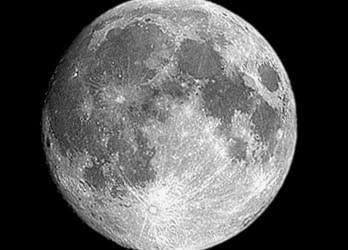
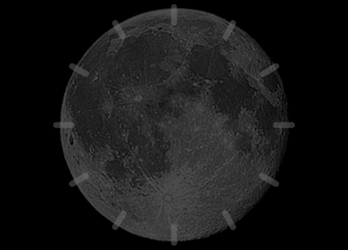
nicer moon background and also heart rate

diff --git a/app/index.js b/app/index.js
@@ -1,6 +1,8 @@
 import clock from "clock";
 import document from "document";
 import { today } from "user-activity";
+import { HeartRateSensor } from "heart-rate";
+
 
 import * as util from "../common/utils";
 
@@ -10,6 +12,7 @@ let hourHand = document.getElementById("hours");
 let minHand = document.getElementById("mins");
 let secHand = document.getElementById("secs");
 let dateLabel = document.getElementById("dateLabel");
+let hrLabel = document.getElementById("hrLabel");
 
 let hiddenButton = document.getElementById("hiddenButton");
 let stepsLabel = document.getElementById("stepsLabel");
@@ -47,19 +50,32 @@ function updateClock() {
 
 hiddenButton.onactivate = function(evt) {
   stepsLabel.text = `Steps: ${today.local.steps}`
-  stepsLabel.style.display = "inline";
+  util.showElement(stepsLabel);
   
-  dateLabel.style.display = "inline";
   dateLabel.text = `${util.getMonth()} ${day.getDate()} ${day.getFullYear()}`;
+  util.showElement(dateLabel);
+  
+  util.showElement(hrLabel)
   
   setTimeout(function() {
-    stepsLabel.style.display = "none";
-    dateLabel.style.display = "none";
+    util.hideElement(stepsLabel);
+    util.hideElement(dateLabel);
+    util.hideElement(hrLabel);
   }, 2000);
 }
 
-stepsLabel.style.display = "none";
-dateLabel.style.display = "none";
+util.hideElement(stepsLabel);
+util.hideElement(dateLabel);
+util.hideElement(hrLabel);
 
 // Update the clock every tick event
 clock.ontick = () => updateClock();
+
+// update the heart rate sensor
+var hrm = new HeartRateSensor();
+
+hrm.onreading = function() {
+  hrLabel.text = `Heart Rate: ${hrm.heartRate}`;
+}
+
+hrm.start();

diff --git a/common/utils.js b/common/utils.js
@@ -14,3 +14,11 @@ export function getMonth() {
   let month = MONTH_NAMES[today.getMonth()];
   return month;
 }
+
+export function showElement(element) {
+  element.style.display = "inline";
+}
+
+export function hideElement(element) {
+  element.style.display  = "none";
+}
